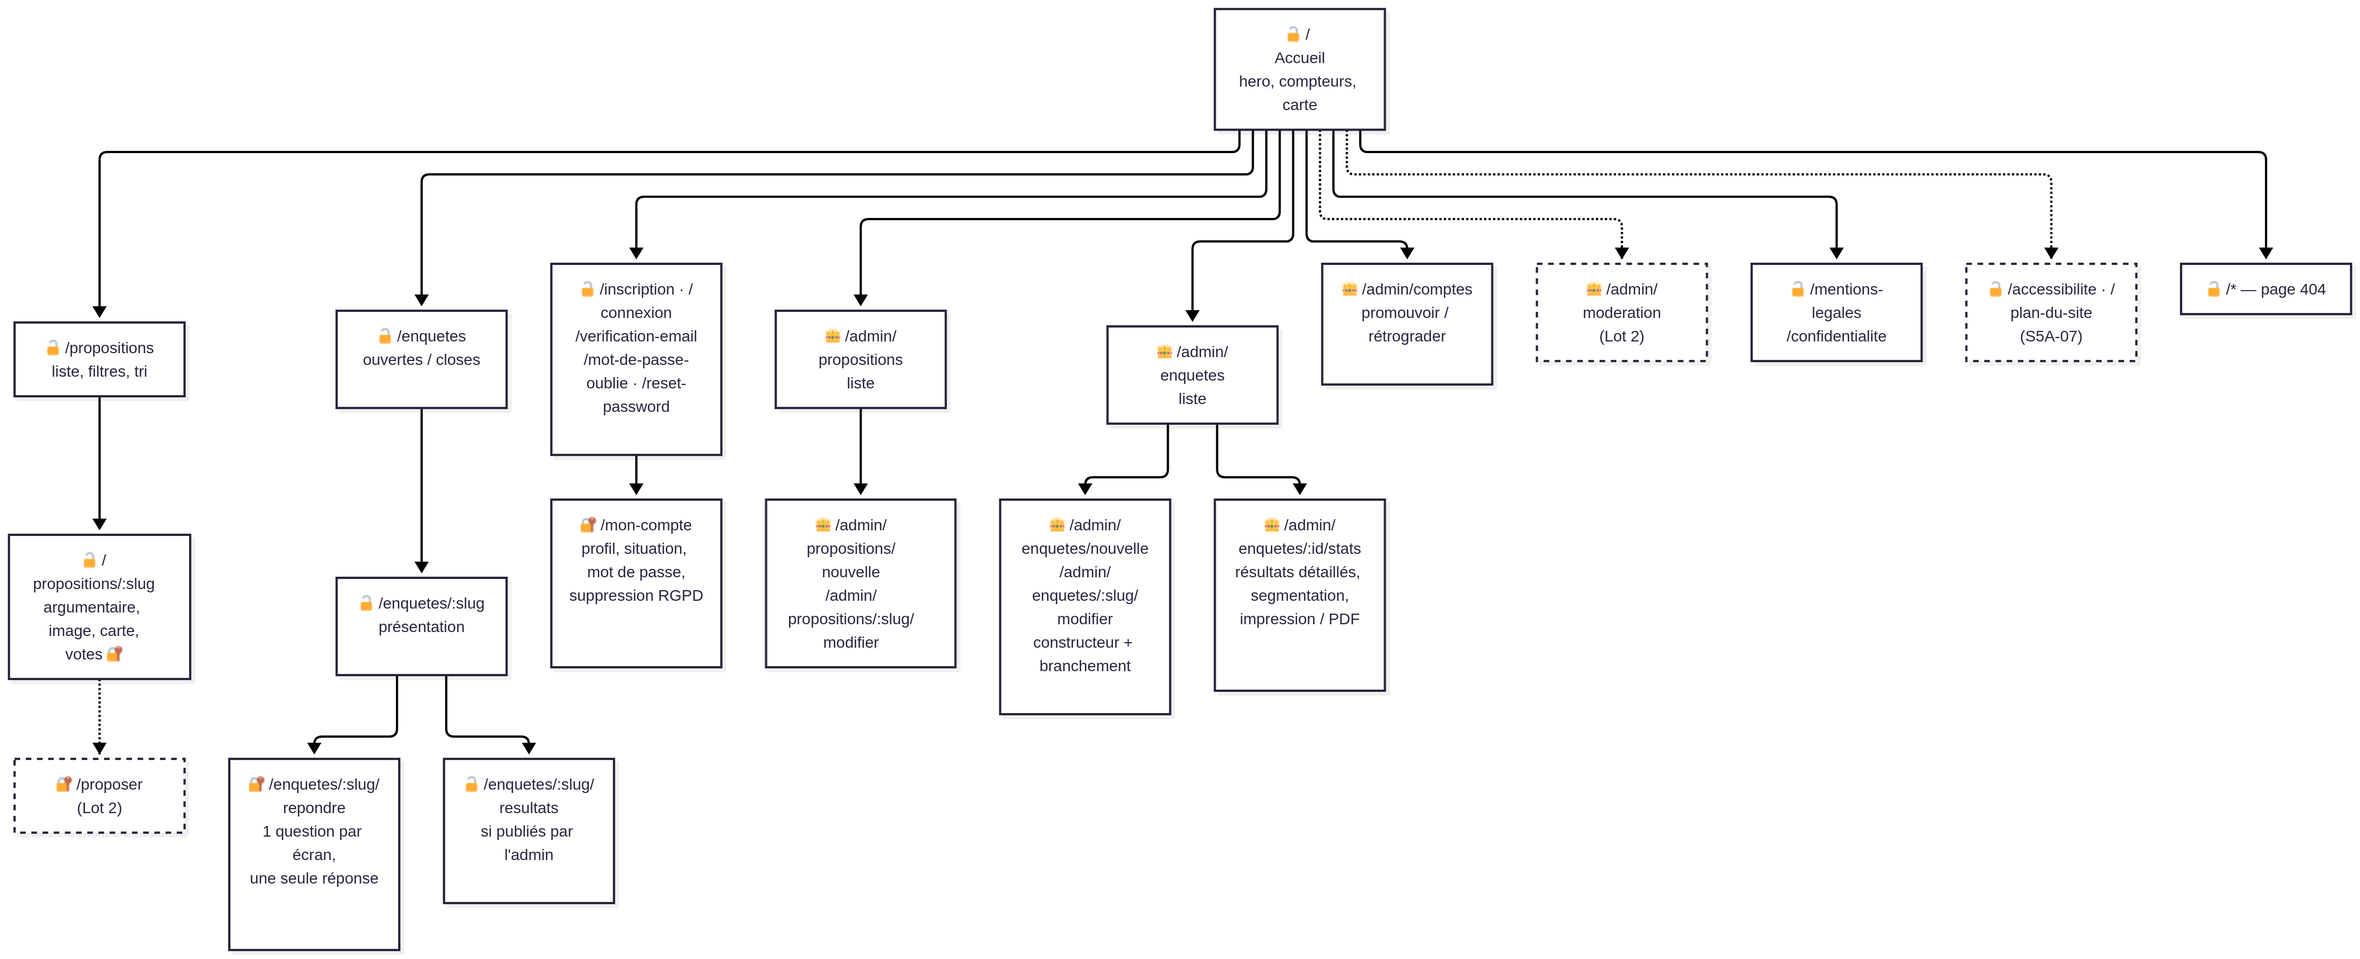
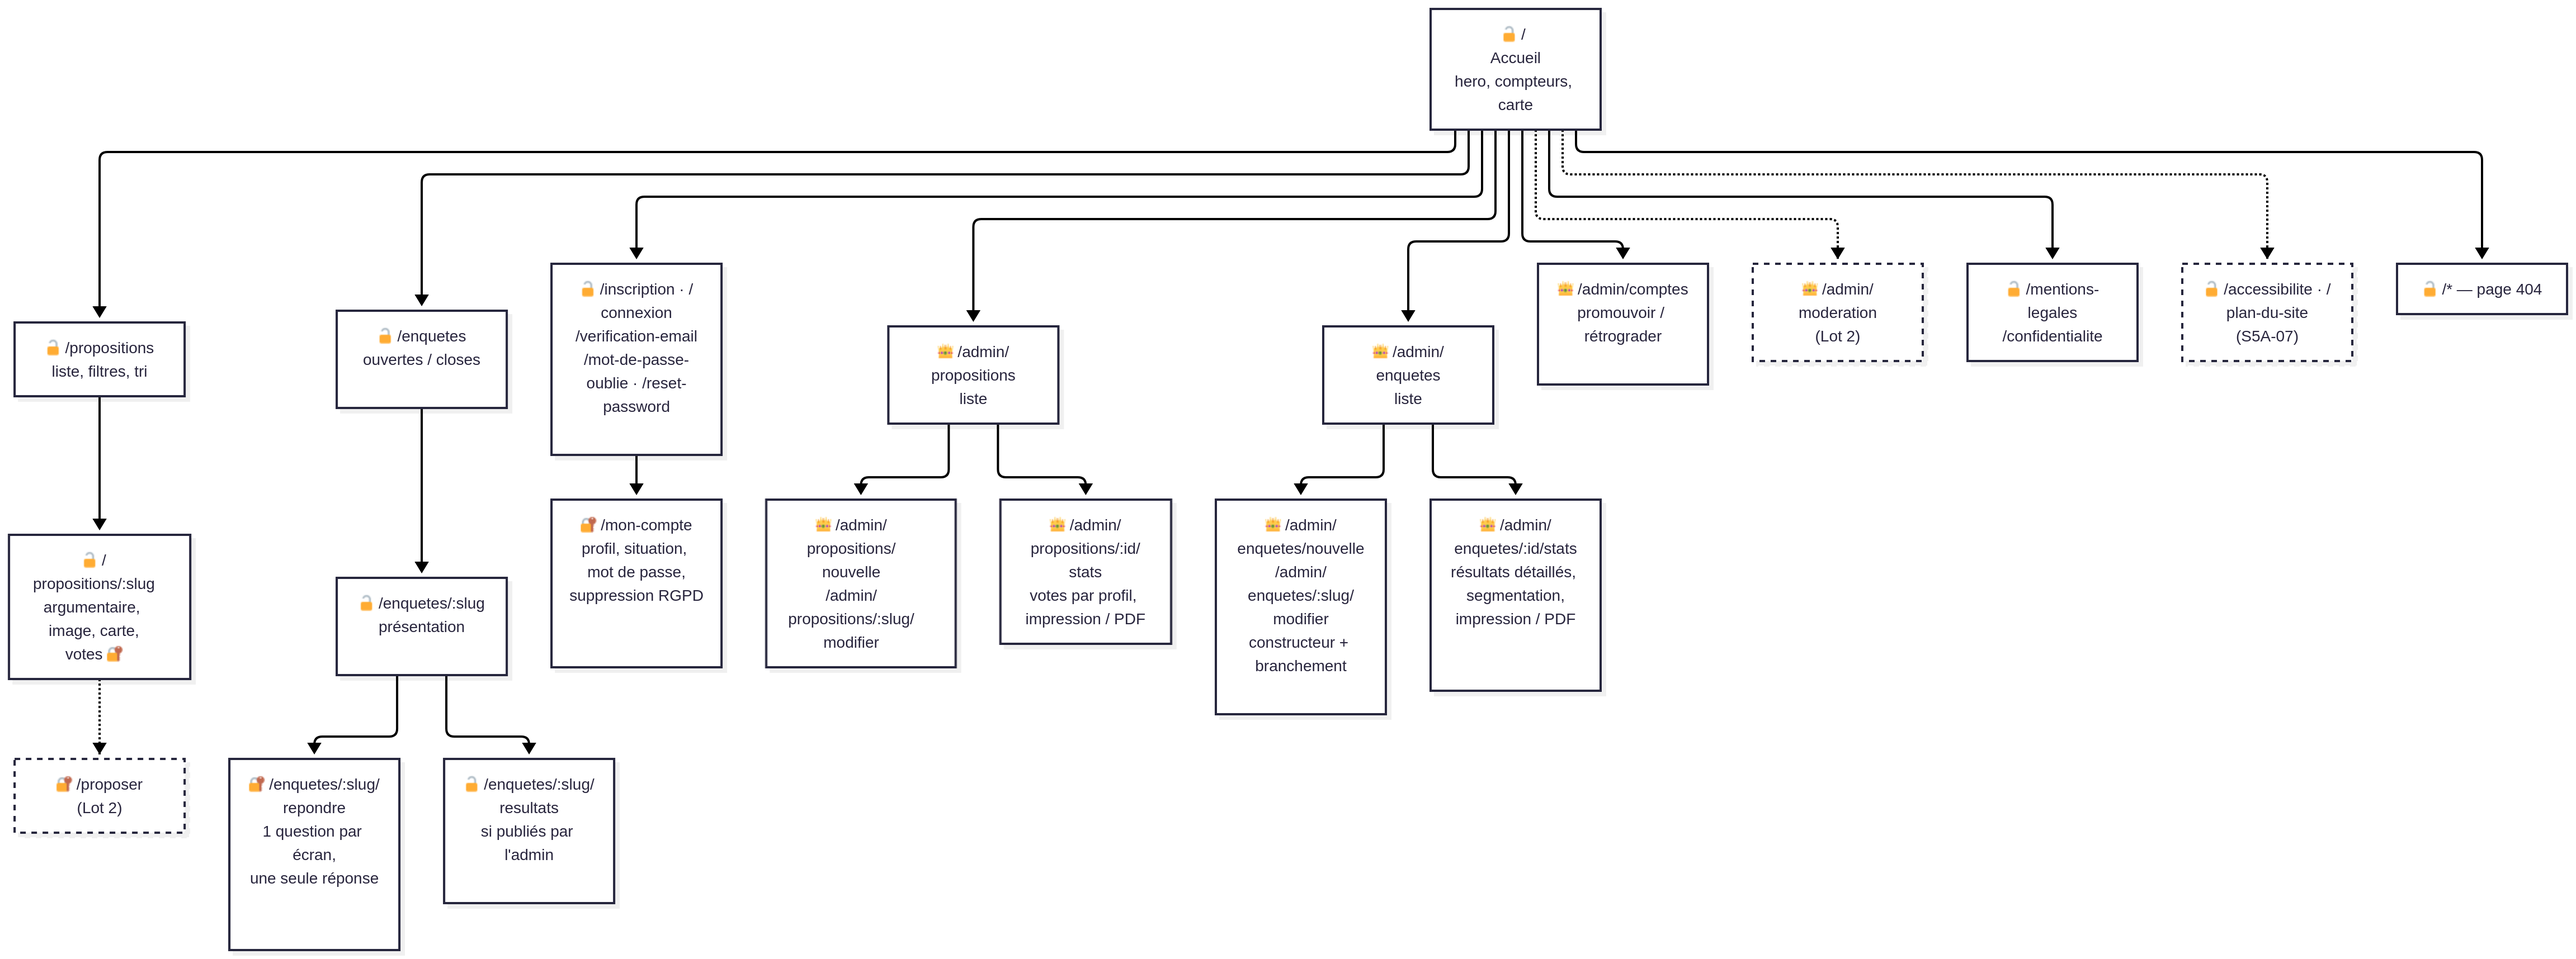
added-docs

diff --git a/16-kanban-issues-complet.md b/16-kanban-issues-complet.md
@@ -20,7 +20,7 @@
 >
 > **Mise à jour v1.9** : +3 issues (S5-19 gestion simple des comptes — promouvoir/rétrograder un admin, sans la hiérarchie complète ; S5-20 mémoriser l'appareil de confiance 1h après un 2FA réussi ; S5-21 résultats segmentés par profil de répondant + export impression/PDF, propositions et enquêtes). +3 jours au calendrier total (85 → 88 j), répercutés sur le Sprint 5ter et les sprints 6 et 7. La hiérarchie complète des rôles (admin mairie, salariés, maisons de quartier, délégués + circuit de validation) est notée en backlog non planifié (BACKLOG-02) — un chantier plus vaste que tout le moteur de branchement réuni, à concevoir en détail avant de le chiffrer.
 >
-> **Mise à jour v1.10** (23/09/2026) : audit sécurité / RGPD / accessibilité avant la mise en ligne (voir `21-audit-securite-rgpd-accessibilite.md`). Nouveau bloc **Sprint 5 audit** (8 issues, S5A-01 à S5A-08), placé **après S5-21 et avant la mise en ligne réelle (Sprint 5ter)** : on ne met pas en ligne un site qui laisse ses droits d'admin à un compte rétrogradé ou qui envoie l'IP de ses visiteurs à Google. +7 jours de travail (88 → 96 j au calendrier, S5-21 et S5A se chevauchant d'un jour), répercutés sur les sprints 5ter, 6 et 7. Au passage : cases ✅ ajoutées aux sprints 0 à 4 (tous livrés, tag `v0.3.0` pour la carte), S5-16 coché (livré mais oublié), S5-21 marqué 🔶 (volet enquêtes livré — segmentation + impression/PDF —, volet propositions restant, + seuil de confidentialité ajouté à ses critères), `develop` → `dev` dans les règles, calendrier semaines/jours réaligné. Pour le Lot 2 : les préférences de notification devront passer à `false` par défaut (RGPD art. 25, protection des données par défaut) — noté dans S7-04.
+> **Mise à jour v1.10** (23/09/2026) : audit sécurité / RGPD / accessibilité avant la mise en ligne (voir `21-audit-securite-rgpd-accessibilite.md`). Nouveau bloc **Sprint 5 audit** (8 issues, S5A-01 à S5A-08), placé **après S5-21 et avant la mise en ligne réelle (Sprint 5ter)** : on ne met pas en ligne un site qui laisse ses droits d'admin à un compte rétrogradé ou qui envoie l'IP de ses visiteurs à Google. +7 jours de travail (88 → 96 j au calendrier, S5-21 et S5A se chevauchant d'un jour), répercutés sur les sprints 5ter, 6 et 7. Au passage : cases ✅ ajoutées aux sprints 0 à 4 (tous livrés, tag `v0.3.0` pour la carte), S5-16 coché (livré mais oublié), S5-21 complété le 24/09 (volet propositions + seuil de confidentialité de 5 personnes, ajouté à ses critères par l'audit), `develop` → `dev` dans les règles, calendrier semaines/jours réaligné. Pour le Lot 2 : les préférences de notification devront passer à `false` par défaut (RGPD art. 25, protection des données par défaut) — noté dans S7-04.
 >
 > **Légende** : ✅ livré (mergé sur `dev`) · 🔶 partiellement livré · sans marque = à faire.
 >
@@ -128,7 +128,7 @@
 | **S5-18** | **`feat(api+client): champ ville avec suggestions (API officielle geo.api.gouv.fr) pour les questions "quelle est cette ville ?"`** ✅ | **`lot:1` `type:feature` `zone:api` `zone:client`** | **`feat/survey-city-autocomplete`** | **1,5 j** | **J60–J61** |
 | **S5-19** | **`feat(api+client): gestion simple des comptes — promouvoir/rétrograder un admin (sans la hiérarchie complète)`** ✅ | **`lot:1` `type:feature` `zone:api` `zone:client` `prio:haute`** | **`feat/simple-user-management`** | **1 j** | **J61–J62** |
 | **S5-20** | **`feat(api+client): 2FA admin — mémoriser l'appareil de confiance pendant 1h`** ✅ | **`lot:1` `type:feature` `zone:api` `zone:client`** | **`feat/2fa-trusted-device`** | **0,5 j** | **J62** |
-| **S5-21** | **`feat(api+client): résultats segmentés par profil de répondant + export impression/PDF (propositions et enquêtes)`** 🔶 *(enquêtes livrées ; reste : propositions + masquage des segments < 5 répondants avant export)* | **`lot:1` `type:feature` `zone:api` `zone:client`** | **`feat/results-segmented-export`** | **2 j** | **J62–J64** |
+| **S5-21** | **`feat(api+client): résultats segmentés par profil de répondant + export impression/PDF (propositions et enquêtes)`** ✅ *(+ secret statistique : groupes de moins de 5 personnes masqués, réponses libres jamais détaillées par segment ni imprimées)* | **`lot:1` `type:feature` `zone:api` `zone:client`** | **`feat/results-segmented-export`** | **2 j** | **J62–J64** |
 
 🎯 *Fin de sprint : l'enquête stationnement cible vraiment son public, ses résultats ne sont visibles que si l'admin les publie, et l'admin dispose d'une vue détaillée pour vérifier qui a réellement répondu.*
 

diff --git a/01-cahier-des-charges-v1.4.md b/01-cahier-des-charges-v1.4.md
@@ -220,6 +220,7 @@ Note : les animations CSS de la mascotte utilisent exclusivement des propriété
 /mon-compte                          Profil, situation, mot de passe, suppression (RGPD) — notifications (Lot 2)
 /proposer                            Soumettre une proposition citoyenne (Lot 2)
 /admin/propositions                  Liste + /nouvelle + /:slug/modifier
+/admin/propositions/:id/stats        Votes répartis par profil des votants, impression / PDF
 /admin/enquetes                      Liste + /nouvelle + /:slug/modifier (constructeur, branchement)
 /admin/enquetes/:id/stats            Résultats détaillés, segmentation, impression / PDF
 /admin/comptes                       Promouvoir / rétrograder un admin
@@ -261,6 +262,7 @@ Note : les animations CSS de la mascotte utilisent exclusivement des propriété
 | PATCH | /proposals/:id | 👑 | Éditer / changer le statut |
 | POST | /proposals/:id/image | 👑 | Envoyer / remplacer l'image (multipart, 5 Mo max) |
 | DELETE | /proposals/:id | 👑 | Supprimer |
+| GET | /proposals/:id/stats | 👑 | Totaux + `?segmentBy=situation\|quartier\|travailleQuartier\|travailType` (groupes de moins de 5 votants masqués) |
 | PUT | /proposals/:id/vote | 🔐✉ | Voter ou changer son vote (upsert) |
 | DELETE | /proposals/:id/vote | 🔐✉ | Retirer son vote |
 | POST | /proposals/submit | 🔐 | Soumettre une proposition citoyenne → PENDING_REVIEW (Lot 2) |

diff --git a/14-sitemap.md b/14-sitemap.md
@@ -22,6 +22,7 @@ flowchart TD
 
     HOME --> ADMP["👑 /admin/propositions<br/>liste"]
     ADMP --> ADMPF["👑 /admin/propositions/nouvelle<br/>/admin/propositions/:slug/modifier"]
+    ADMP --> ADMPS["👑 /admin/propositions/:id/stats<br/>votes par profil, impression / PDF"]
     HOME --> ADME["👑 /admin/enquetes<br/>liste"]
     ADME --> ADMEF["👑 /admin/enquetes/nouvelle<br/>/admin/enquetes/:slug/modifier<br/>constructeur + branchement"]
     ADME --> ADMS["👑 /admin/enquetes/:id/stats<br/>résultats détaillés, segmentation,<br/>impression / PDF"]
